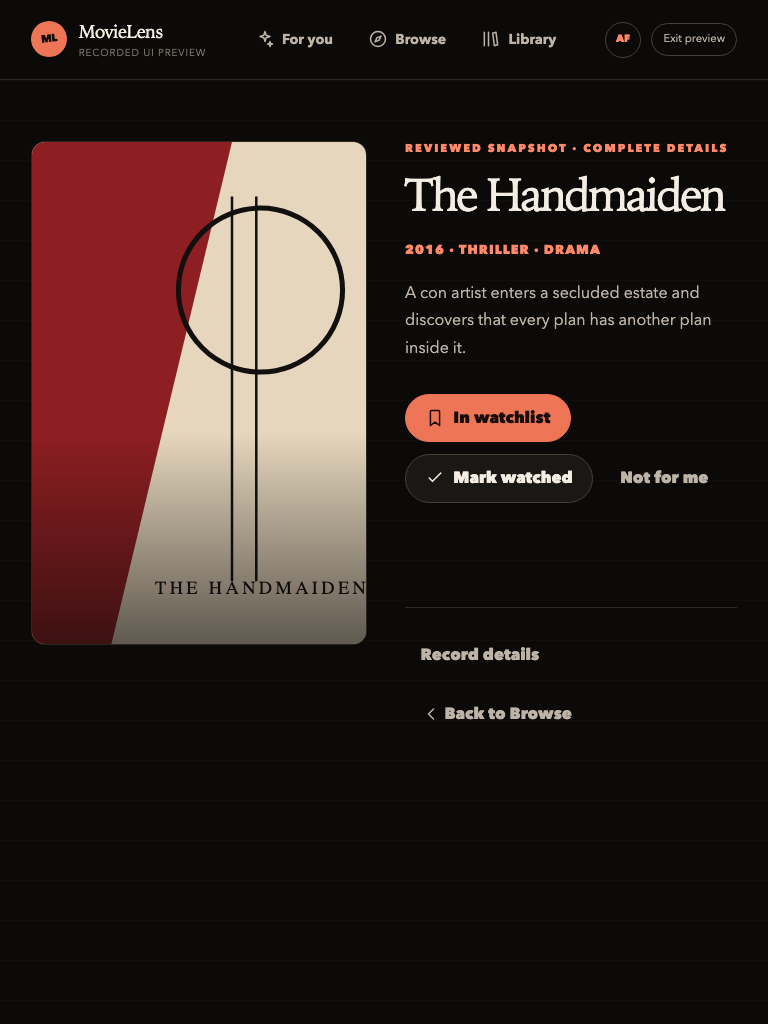
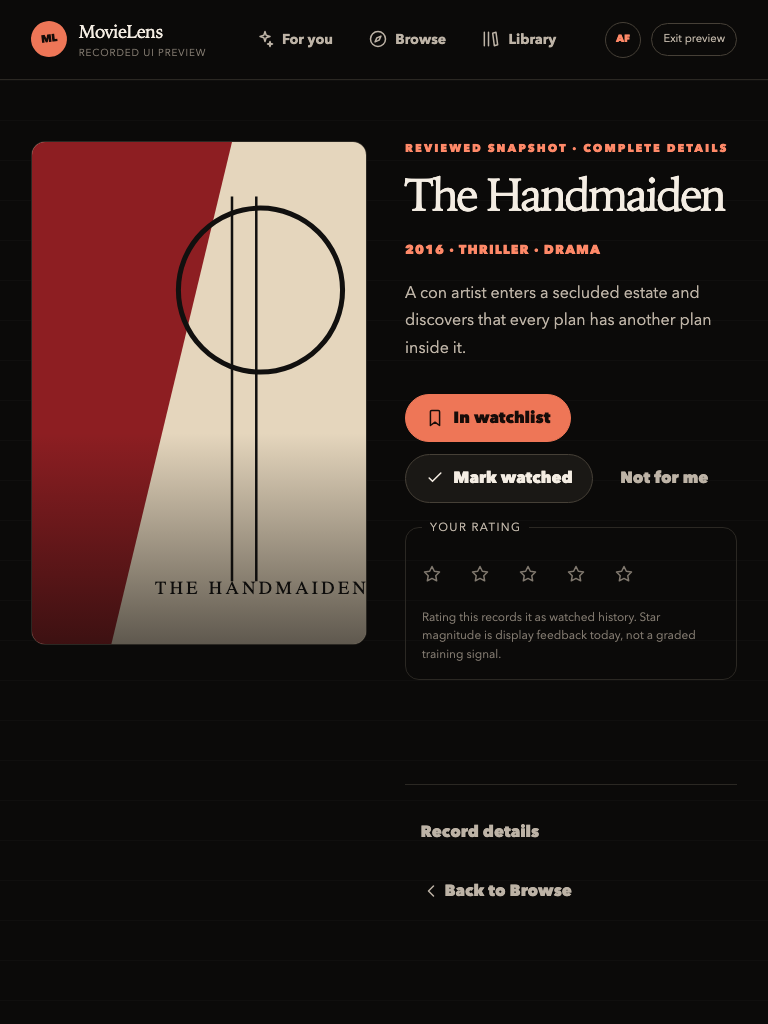
fix(web): keep detail rating controls addressable by the Library journey
Bundle 5D's service-backed journey opens a movie with no watched interaction
and rates it straight from detail. The 5C detail rewrite broke that in two
ways, and both were the rewrite being wrong rather than the test being brittle.

The rating panel was gated behind "Mark watched". That is backwards: setting a
rating *is* recording a watched interaction on the API side, so gating it hid
the shorter path to the same committed state and made a viewer press two
buttons to say one thing. The panel is now always reachable and says what a
star commits to — "Rating this records it as watched history" until the movie
is watched, and the narrower magnitude caveat afterwards. Watchlist remains the
primary action for an unseen movie, so the route contract's hierarchy is intact.

The rating confirmation also led with the qualifier rather than the outcome.
It now reads "Rating saved." first, which is both better copy and the phrase
the Library journey waits on; deleting a star answers "Rating removed." and
still says the movie stays in watched history.

Star buttons keep the `{n} stars for {title}` name they already had, which is
the name Discover's rating control uses too, so the same selector addresses
both routes.

Refreshes the detail evidence captures, which now show the reachable rating
panel.

diff --git a/web/components/movie/canonical-state-controls.tsx b/web/components/movie/canonical-state-controls.tsx
@@ -144,44 +144,52 @@ export function CanonicalStateControls({
         </p>
       ) : null}
 
-      {display.watched ? (
-        <fieldset className="canonical-rating">
-          <legend>Your rating</legend>
-          <div className="canonical-rating-stars">
-            {STARS.map((value) => (
-              <button
-                aria-disabled={busy}
-                aria-label={`${value} ${value === 1 ? "star" : "stars"} for ${title}`}
-                aria-pressed={display.rating === value}
-                className={
-                  display.rating !== null && value <= display.rating
-                    ? "rating-active"
-                    : undefined
-                }
-                key={value}
-                onClick={act({ resource: "rating", method: "PUT", rating: value })}
-                type="button"
-              >
-                <Icon name="star" />
-              </button>
-            ))}
-            {display.rating !== null ? (
-              <button
-                aria-disabled={busy}
-                className="button-quiet"
-                onClick={act({ resource: "rating", method: "DELETE" })}
-                type="button"
-              >
-                Clear rating
-              </button>
-            ) : null}
-          </div>
-          <p className="canonical-rating-note">
-            A rating records watched history. Star magnitude is display feedback
-            today, not a graded training signal.
-          </p>
-        </fieldset>
-      ) : null}
+      {/*
+        The rating panel is always reachable, not gated behind "Mark watched".
+        Setting a rating *is* recording a watched interaction on the API side,
+        so hiding the stars until watched would make the shorter path to the
+        same committed state unreachable — and would leave a viewer who wants
+        to rate something clicking two buttons to say one thing. Watchlist
+        stays the primary action for an unseen movie; this sits below it and
+        says plainly what a star commits to.
+      */}
+      <fieldset className="canonical-rating">
+        <legend>Your rating</legend>
+        <div className="canonical-rating-stars">
+          {STARS.map((value) => (
+            <button
+              aria-disabled={busy}
+              aria-label={`${value} ${value === 1 ? "star" : "stars"} for ${title}`}
+              aria-pressed={display.rating === value}
+              className={
+                display.rating !== null && value <= display.rating
+                  ? "rating-active"
+                  : undefined
+              }
+              key={value}
+              onClick={act({ resource: "rating", method: "PUT", rating: value })}
+              type="button"
+            >
+              <Icon name="star" />
+            </button>
+          ))}
+          {display.rating !== null ? (
+            <button
+              aria-disabled={busy}
+              className="button-quiet"
+              onClick={act({ resource: "rating", method: "DELETE" })}
+              type="button"
+            >
+              Clear rating
+            </button>
+          ) : null}
+        </div>
+        <p className="canonical-rating-note">
+          {display.watched
+            ? "Star magnitude is display feedback today, not a graded training signal."
+            : "Rating this records it as watched history. Star magnitude is display feedback today, not a graded training signal."}
+        </p>
+      </fieldset>
 
       {/*
         Two regions rather than one whose role flips: a live region has to be

diff --git a/web/components/movie/movie-detail-view.test.tsx b/web/components/movie/movie-detail-view.test.tsx
@@ -233,18 +233,66 @@ describe("canonical state controls", () => {
     );
   });
 
-  it("reveals rating only after watched and keeps the rating claim narrow", async () => {
-    stubFetch(committed({ watched_at: "2026-08-21T10:00:00Z", revision: 5 }));
+  it("offers rating before the movie is watched and says what a star commits to", async () => {
+    const { calls } = stubFetch(
+      committed({
+        watched_at: "2026-08-21T10:00:00Z",
+        rating: 4,
+        rating_updated_at: "2026-08-21T10:00:00Z",
+        revision: 5,
+      }),
+    );
     const { container } = renderDetail({ state: movieState });
 
-    expect(screen.queryByRole("group", { name: "Your rating" })).not.toBeInTheDocument();
-    await userEvent.click(screen.getByRole("button", { name: "Mark watched" }));
-
-    expect(await screen.findByRole("group", { name: "Your rating" })).toBeVisible();
-    expect(
-      screen.getByText(/Star magnitude is display feedback today/),
-    ).toBeVisible();
+    // Rating is the shorter path to the same committed state, so it is not
+    // hidden behind "Mark watched" — but it must say what it will record.
+    const panel = screen.getByRole("group", { name: "Your rating" });
+    expect(panel).toBeVisible();
+    expect(panel).toHaveTextContent("Rating this records it as watched history");
     expect(await axe(container)).toHaveNoViolations();
+
+    // The star names are the ones the service-backed journeys address.
+    await userEvent.click(
+      screen.getByRole("button", { name: "4 stars for The Handmaiden" }),
+    );
+
+    await waitFor(() => expect(calls).toHaveLength(1));
+    expect(calls[0]).toContain("/movies/101/rating?expected_revision=4");
+    expect(screen.getByRole("status")).toHaveTextContent("Rating saved.");
+    expect(screen.getByRole("status")).toHaveTextContent(
+      "star magnitude is not a graded model signal",
+    );
+  });
+
+  it("narrows the rating note once the movie is already watched", () => {
+    renderDetail({
+      state: { ...movieState, watched_at: "2026-08-01T10:00:00Z" },
+    });
+
+    const panel = screen.getByRole("group", { name: "Your rating" });
+    expect(panel).toHaveTextContent(
+      "Star magnitude is display feedback today, not a graded training signal.",
+    );
+    expect(panel).not.toHaveTextContent("records it as watched history");
+  });
+
+  it("keeps removing a rating distinct from removing watched history", async () => {
+    const { calls } = stubFetch(committed({ rating: null, revision: 5 }));
+    renderDetail({
+      state: {
+        ...movieState,
+        watched_at: "2026-08-01T10:00:00Z",
+        rating: 4,
+        revision: 4,
+      },
+    });
+
+    await userEvent.click(screen.getByRole("button", { name: "Clear rating" }));
+
+    await waitFor(() => expect(calls).toHaveLength(1));
+    expect(screen.getByRole("status")).toHaveTextContent(
+      "Rating removed. The Handmaiden stays in watched history.",
+    );
   });
 
   it("confirms before removing a watched interaction", async () => {

diff --git a/web/components/movie/use-canonical-movie-state.ts b/web/components/movie/use-canonical-movie-state.ts
@@ -89,9 +89,12 @@ function successMessage(action: MovieStateAction, title: string): string {
         ? `Dismissed ${title}. It is excluded from recommendations and can be undone.`
         : `Restored ${title}. It can be recommended again.`;
     case "rating":
+      // "Rating saved." leads on purpose: it is the phrase the Library journey
+      // waits on, and a confirmation that starts by naming what happened reads
+      // better than one that starts by qualifying it.
       return action.method === "PUT"
-        ? `Saved ${action.rating} stars for ${title}. A rating records watched history; star magnitude is not a graded model signal.`
-        : `Removed your rating for ${title}. It stays in watched history.`;
+        ? `Rating saved. ${action.rating} ${action.rating === 1 ? "star" : "stars"} for ${title} — a rating records watched history, and star magnitude is not a graded model signal.`
+        : `Rating removed. ${title} stays in watched history.`;
   }
 }
 
